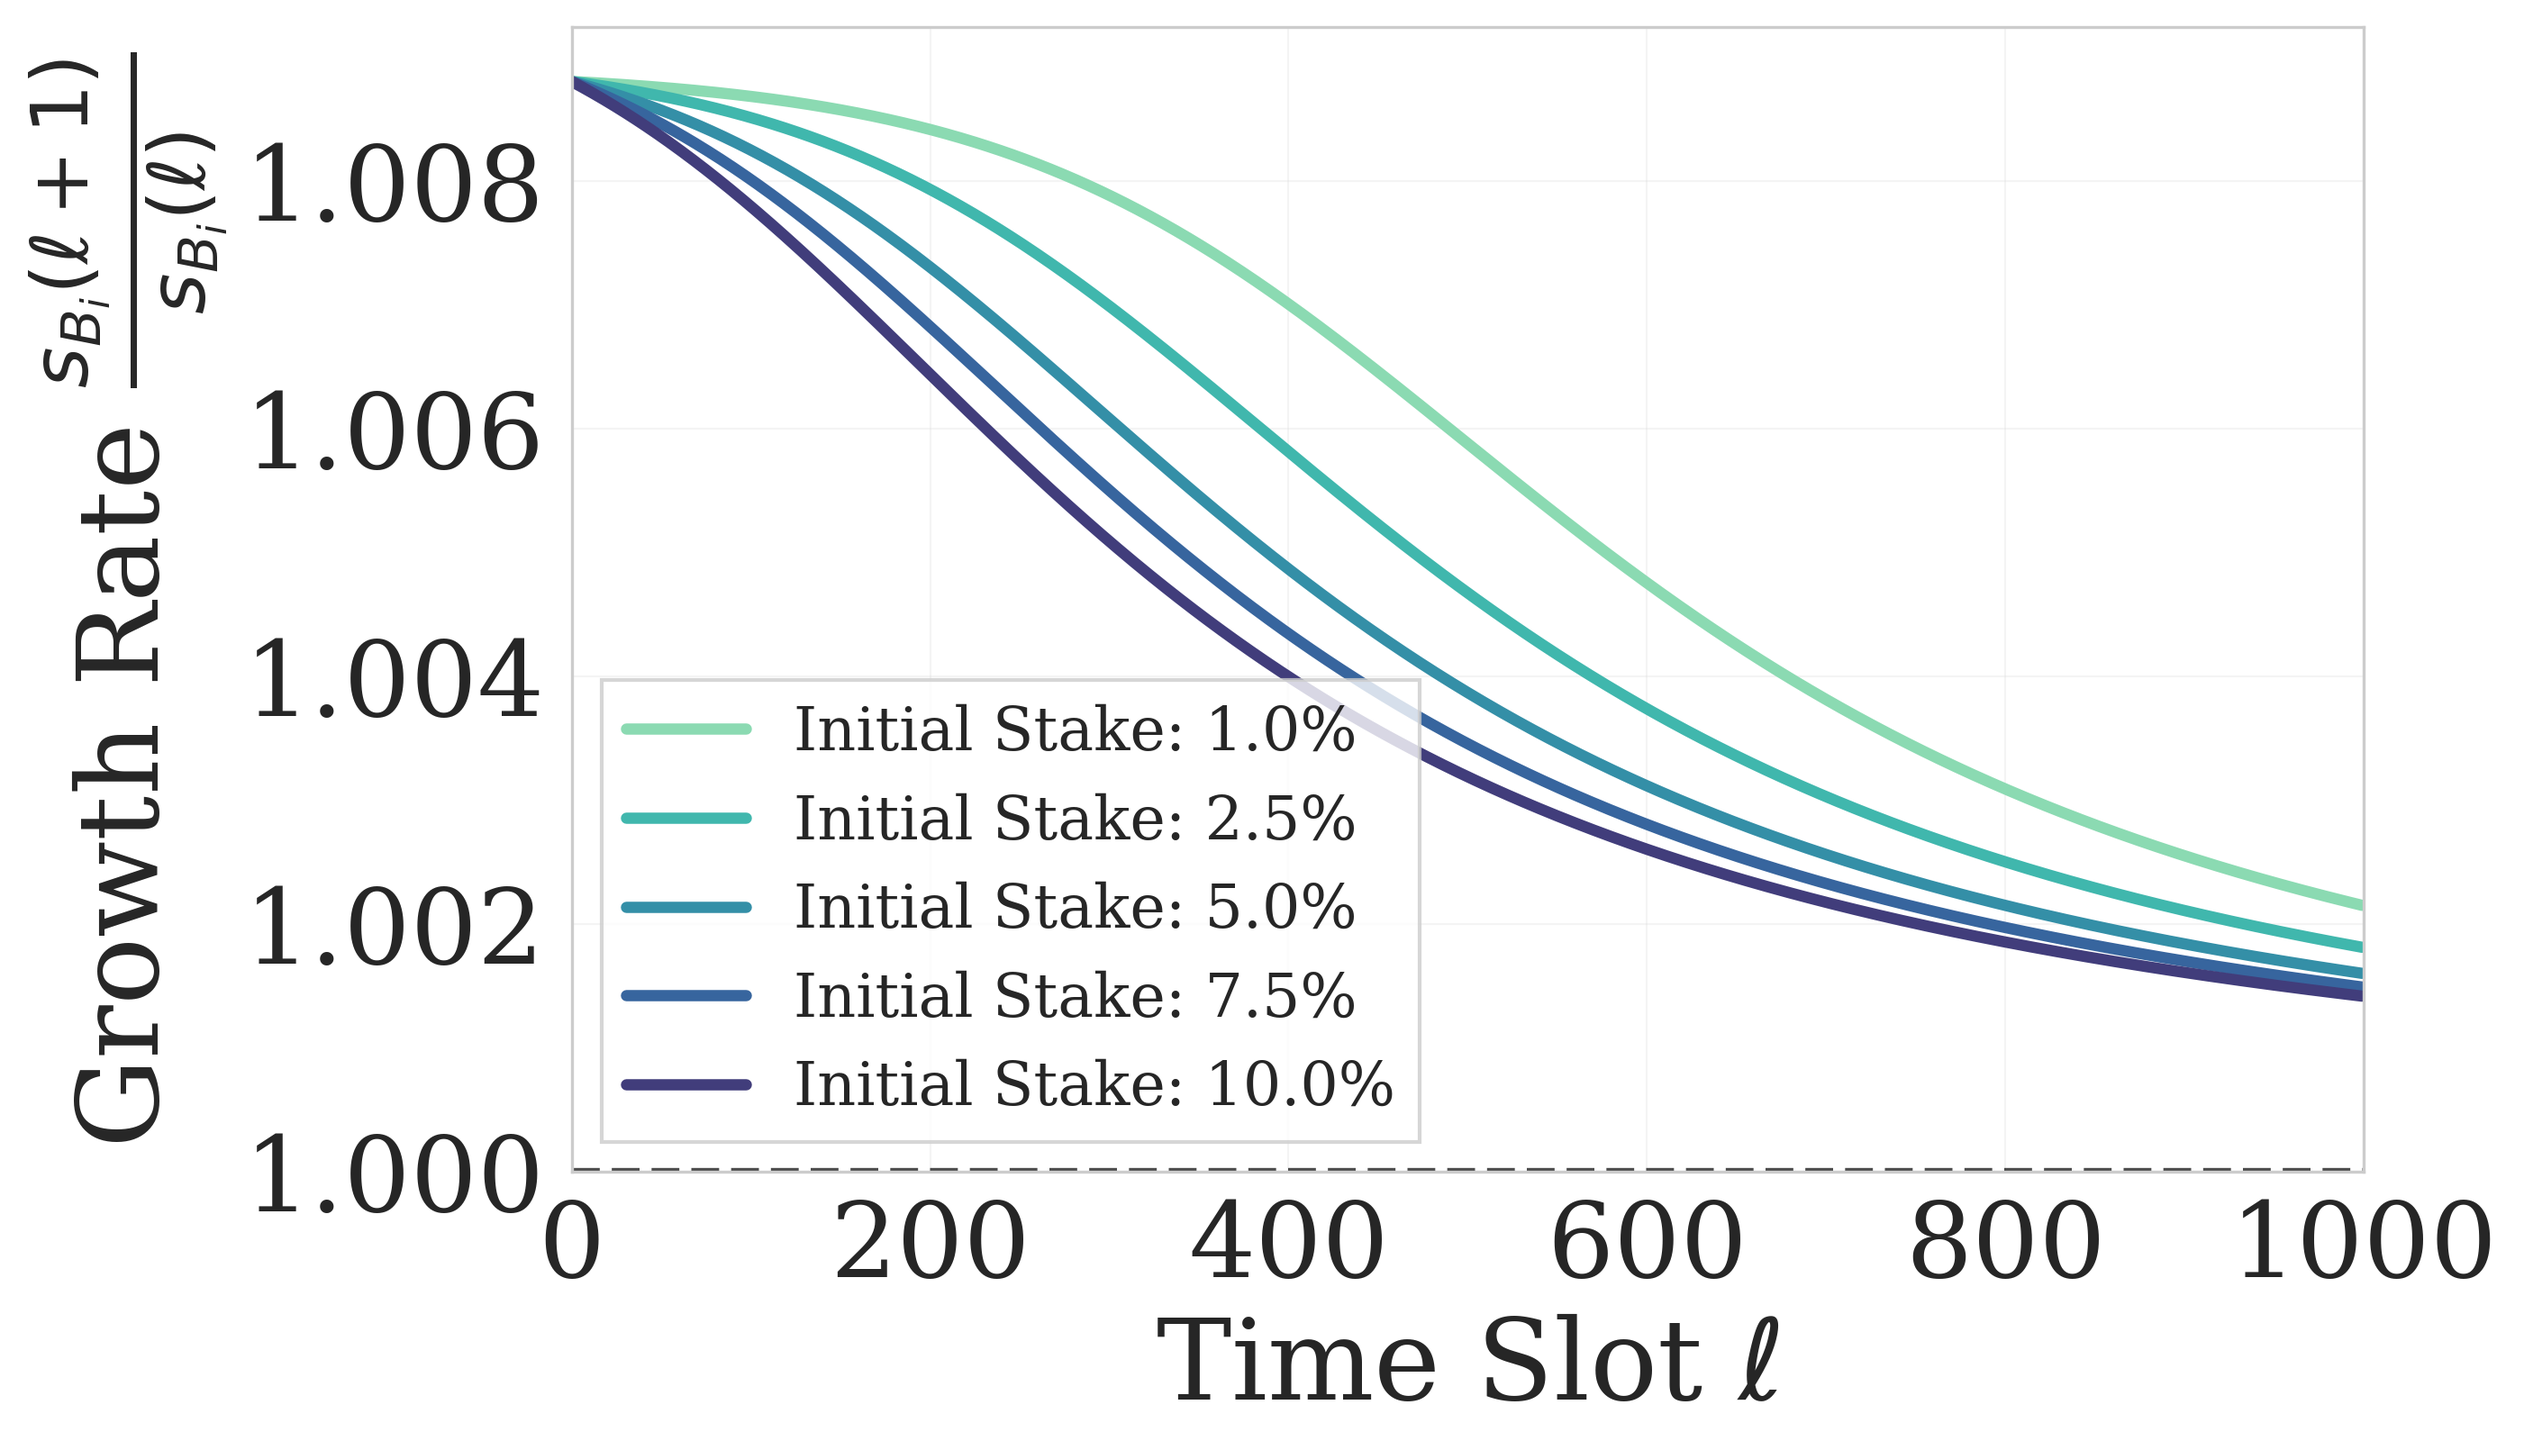
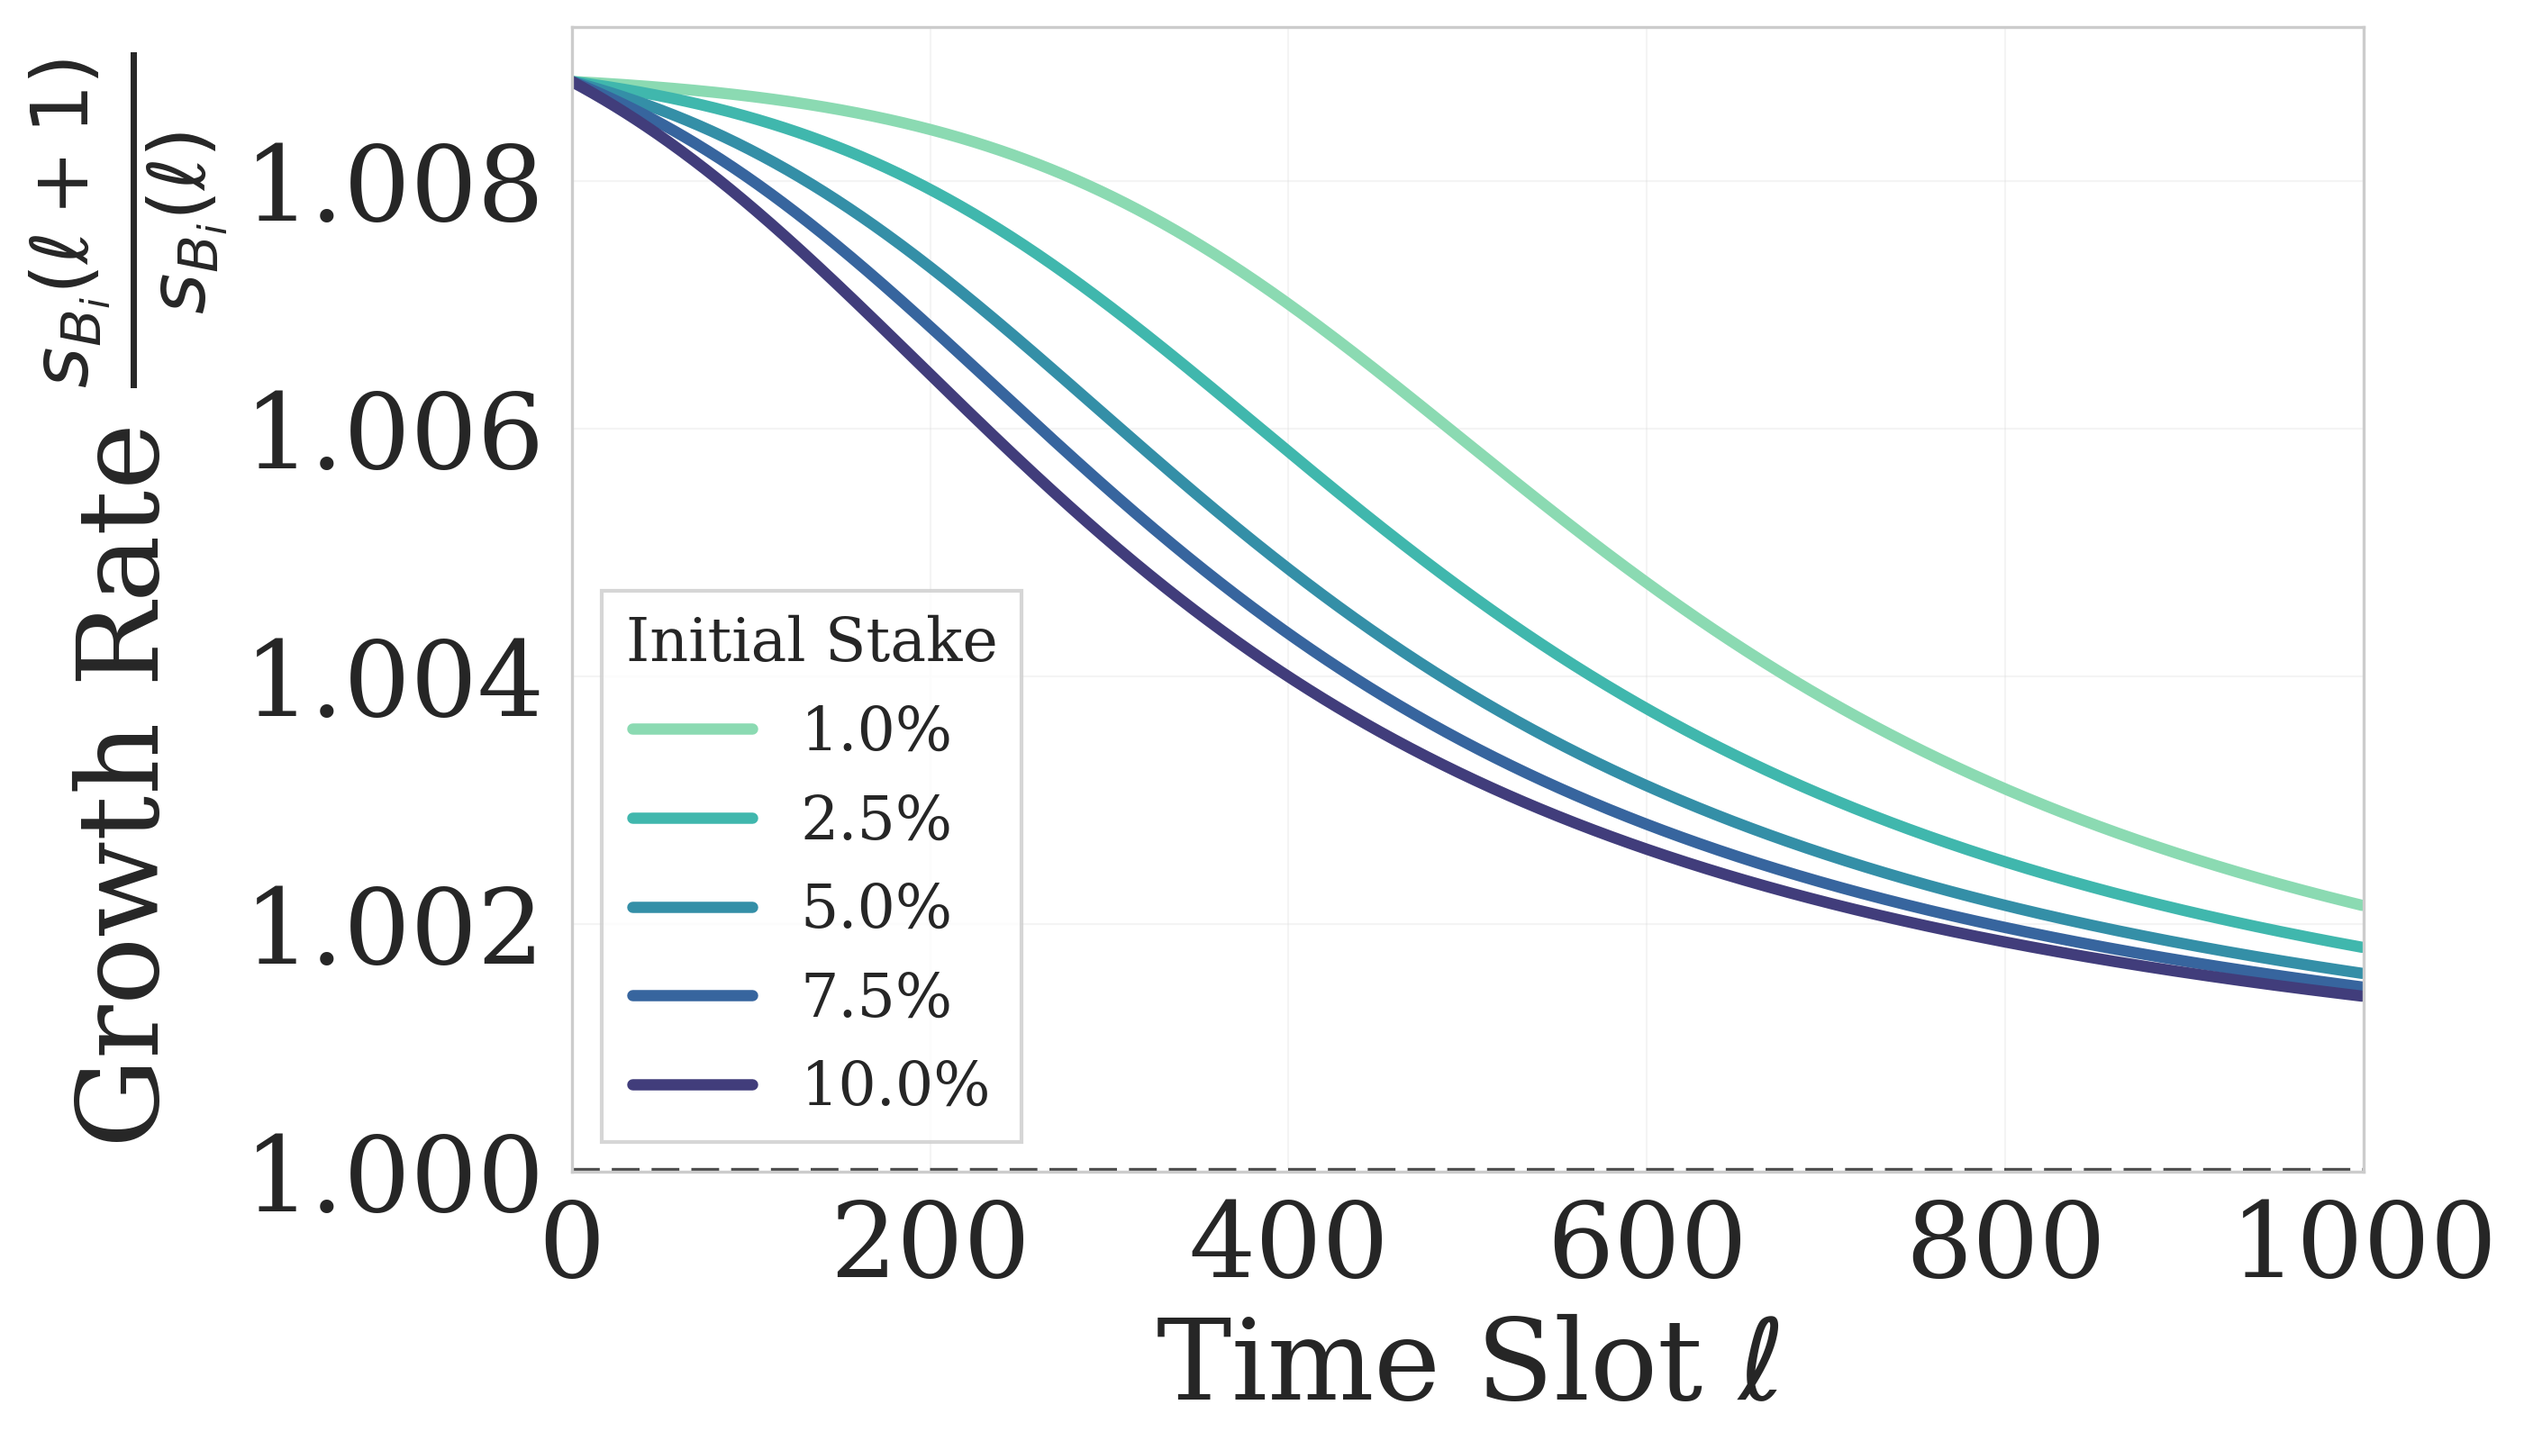
legend improve

Changed region(s): [[0.2484, 0.4037, 0.5589, 0.7764]]

diff --git a/plots/theory/restaking.py b/plots/theory/restaking.py
@@ -82,7 +82,7 @@ def create_builder_growth_theory_plot():
         # Plot growth rate over time
         ax.plot(time_slots[:-1], growth_rates, 
                 linewidth=3, color=palette[i], 
-                label=f'Initial Stake: {initial_stake_pcts[i]*100:.1f}%')
+                label=f'{initial_stake_pcts[i]*100:.1f}%')
     
     # Add horizontal line at growth rate = 1
     ax.axhline(y=1, color='black', linestyle='--', alpha=0.7, linewidth=2)
@@ -93,8 +93,9 @@ def create_builder_growth_theory_plot():
     ax.set_xlim(0, 1000)
     ax.set_ylim(1.0, None)  # Start from 1
     
-    # Add legend
-    ax.legend(loc='lower left', fontsize=16, frameon=True, fancybox=False, shadow=False)
+    # Add legend with title
+    ax.legend(title='Initial Stake', loc='lower left', fontsize=16, title_fontsize=16, 
+              frameon=True, fancybox=False, shadow=False)
     
     # Add grid
     ax.grid(True, alpha=0.2, linestyle='-', linewidth=0.5)
@@ -117,11 +118,11 @@ def create_stake_evolution_plot():
     # Order: 1%, 2.5%, 5%, 7.5%, 10% to match create_builder_growth_theory_plot()
     f_pi = 0.5  # Same ability for all
     entities = [
-        {'initial_stake': 10, 'f_pi': f_pi, 'label': 'Initial Stake: 1%', 'color': palette[0]},
-        {'initial_stake': 25, 'f_pi': f_pi, 'label': 'Initial Stake: 2.5%', 'color': palette[1]},
-        {'initial_stake': 50, 'f_pi': f_pi, 'label': 'Initial Stake: 5%', 'color': palette[2]},
-        {'initial_stake': 75, 'f_pi': f_pi, 'label': 'Initial Stake: 7.5%', 'color': palette[3]},
-        {'initial_stake': 100, 'f_pi': f_pi, 'label': 'Initial Stake: 10%', 'color': palette[4]},
+        {'initial_stake': 10, 'f_pi': f_pi, 'label': '1%', 'color': palette[0]},
+        {'initial_stake': 25, 'f_pi': f_pi, 'label': '2.5%', 'color': palette[1]},
+        {'initial_stake': 50, 'f_pi': f_pi, 'label': '5%', 'color': palette[2]},
+        {'initial_stake': 75, 'f_pi': f_pi, 'label': '7.5%', 'color': palette[3]},
+        {'initial_stake': 100, 'f_pi': f_pi, 'label': '10%', 'color': palette[4]},
     ]
     
     # Remaining stake goes to "others" (passive, no growth)
@@ -181,12 +182,12 @@ def create_stake_evolution_plot():
     for i in range(len(entities)):
         ax.fill_between(time_slots, bottom, bottom + proportions[i], 
                        color=entities[i]['color'], alpha=0.7, 
-                       label=entities[i]['label'], linewidth=0)
+                       linewidth=0)
         bottom += proportions[i]
     
-    # Plot "others" on top
+    # Plot "others" on top (no label)
     ax.fill_between(time_slots, bottom, bottom + others_proportions,
-                   color='lightgray', alpha=0.5, label='Others (No Growth)', linewidth=0)
+                   color='lightgray', alpha=0.5, linewidth=0)
     
     # Add grid for better readability
     ax.grid(True, alpha=0.2, linestyle='-', linewidth=0.5)
@@ -198,9 +199,6 @@ def create_stake_evolution_plot():
     ax.set_ylim(0, 100)
     ax.set_yticks([0, 25, 50, 75, 100])
     ax.set_yticklabels(['0%', '25%', '50%', '75%', '100%'])
-    
-    # Add legend (smaller size)
-    ax.legend(loc='lower right', fontsize=14, frameon=True, fancybox=False, shadow=False)
     
     plt.tight_layout()
     return fig
@@ -219,11 +217,11 @@ def create_proposer_stake_evolution_plot():
     # Order: 1%, 2.5%, 5%, 7.5%, 10% to match create_builder_growth_theory_plot()
     f_pi = 0.5  # Same ability for all
     entities = [
-        {'initial_stake': 10, 'f_pi': f_pi, 'label': 'Initial Stake: 1%', 'color': palette[0]},
-        {'initial_stake': 25, 'f_pi': f_pi, 'label': 'Initial Stake: 2.5%', 'color': palette[1]},
-        {'initial_stake': 50, 'f_pi': f_pi, 'label': 'Initial Stake: 5%', 'color': palette[2]},
-        {'initial_stake': 75, 'f_pi': f_pi, 'label': 'Initial Stake: 7.5%', 'color': palette[3]},
-        {'initial_stake': 100, 'f_pi': f_pi, 'label': 'Initial Stake: 10%', 'color': palette[4]},
+        {'initial_stake': 10, 'f_pi': f_pi, 'label': '1%', 'color': palette[0]},
+        {'initial_stake': 25, 'f_pi': f_pi, 'label': '2.5%', 'color': palette[1]},
+        {'initial_stake': 50, 'f_pi': f_pi, 'label': '5%', 'color': palette[2]},
+        {'initial_stake': 75, 'f_pi': f_pi, 'label': '7.5%', 'color': palette[3]},
+        {'initial_stake': 100, 'f_pi': f_pi, 'label': '10%', 'color': palette[4]},
     ]
     
     # Remaining stake goes to "others" (passive, no growth)
@@ -283,12 +281,12 @@ def create_proposer_stake_evolution_plot():
     for i in range(len(entities)):
         ax.fill_between(time_slots, bottom, bottom + proportions[i], 
                        color=entities[i]['color'], alpha=0.7, 
-                       label=entities[i]['label'], linewidth=0)
+                       linewidth=0)
         bottom += proportions[i]
     
-    # Plot "others" on top
+    # Plot "others" on top (no label)
     ax.fill_between(time_slots, bottom, bottom + others_proportions,
-                   color='lightgray', alpha=0.5, label='Others (No Growth)', linewidth=0)
+                   color='lightgray', alpha=0.5, linewidth=0)
     
     # Add grid for better readability
     ax.grid(True, alpha=0.2, linestyle='-', linewidth=0.5)
@@ -300,9 +298,6 @@ def create_proposer_stake_evolution_plot():
     ax.set_ylim(0, 100)
     ax.set_yticks([0, 25, 50, 75, 100])
     ax.set_yticklabels(['0%', '25%', '50%', '75%', '100%'])
-    
-    # Add legend (smaller size)
-    ax.legend(loc='lower right', fontsize=14, frameon=True, fancybox=False, shadow=False)
     
     plt.tight_layout()
     return fig
